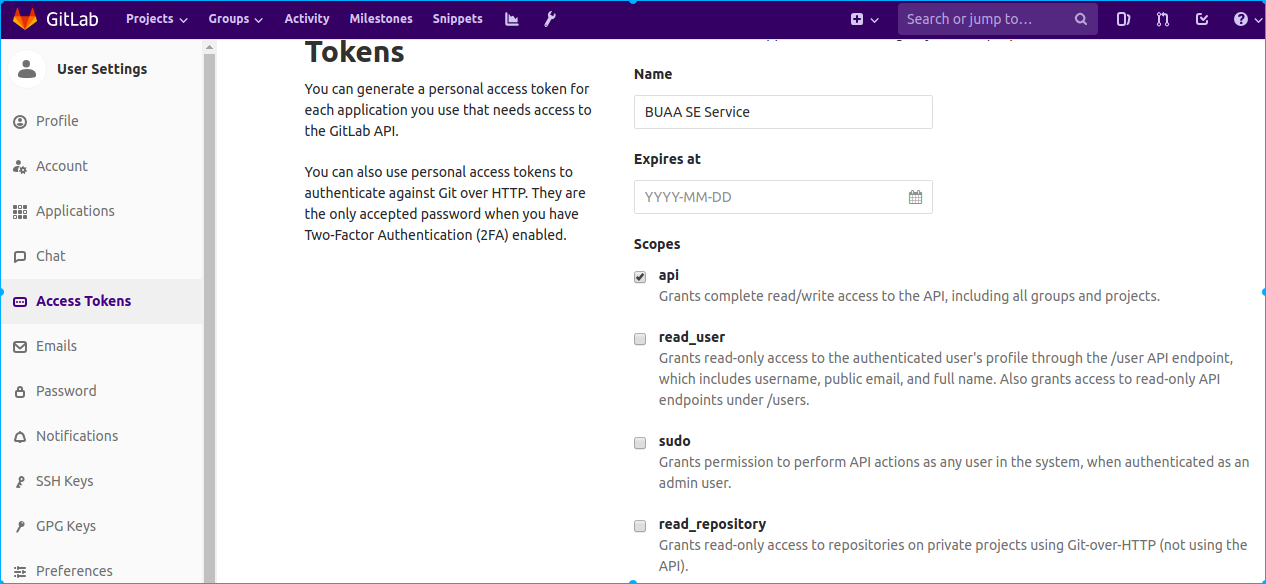
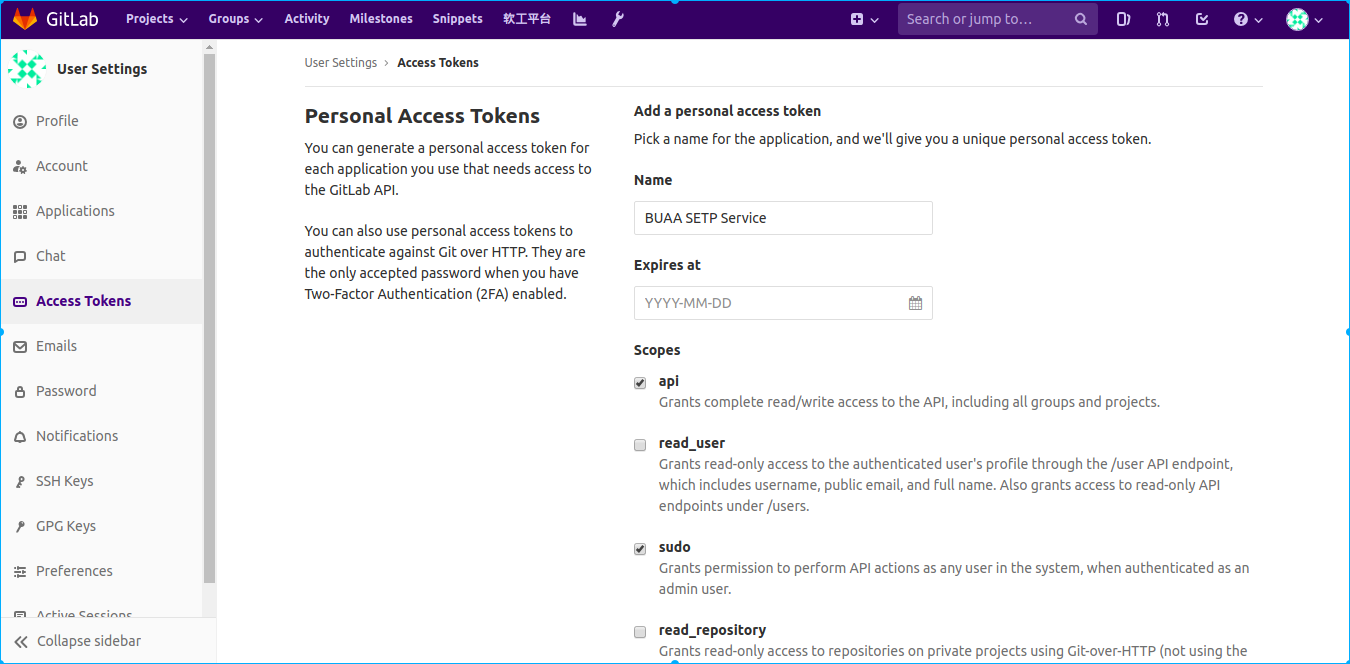
修改文档

diff --git a/README.md b/README.md
@@ -44,17 +44,22 @@ sudo EXTERNAL_URL="http://gitlab.ce" apt-get install gitlab-ce
 ### GitLab配置
 #### 配置 System Hook
 * 以管理员账户登录GitLab，进入Admin Area
+
   ![](.md-imgs/admin-area.png)
 * 配置System Hook， 填写本服务Url，添加即可
+
   ![](.md-imgs/systemhook.png)
 #### 配置管理员 Access Token
-进入root用户设置页，添加Access Token，务必勾选api
+进入root用户设置页，添加Access Token，务必勾选api和sudo
+
 ![](.md-imgs/access-token.png)
 #### 允许添加 localhost webhook
 进入Admin Area 设置页面，勾选 Allow requests to the local network from hooks and services
+
 ![](.md-imgs/allow-localhost.png)
 #### 添加 OAuth 应用
 进入 Admin Area Applications 页面，添加应用，务必勾选api
+
 ![](.md-imgs/application.png)
 
 
@@ -87,11 +92,11 @@ sudo apt-get install gitlab-runner
 参考 https://docs.gitlab.com/runner/register/index.html
 
 ### 数据库
-默认使用 Sqlite
-数据库初始化: rails db:migrate
++ 开发环境 Sqlite
++ 生产环境 PostgreSQL
 
 ### 部署
-todo
+参考 [Rails + Webpacker + Puma + Nginx 部署](https://luocaodan.github.io/2019/01/01/Rails+Webpacker+Puma+Nginx_deploy/)
 
 # issue 状态说明
 状态有四种：
